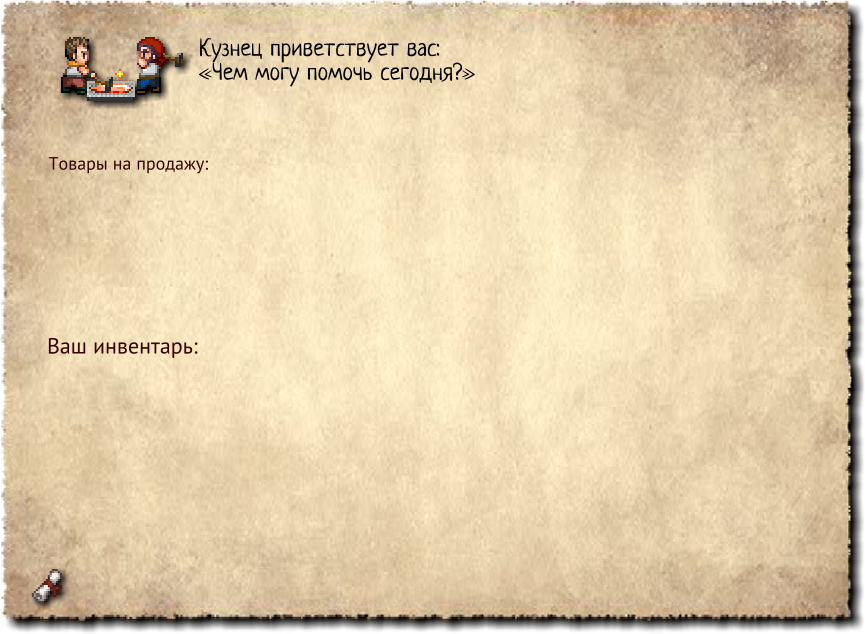
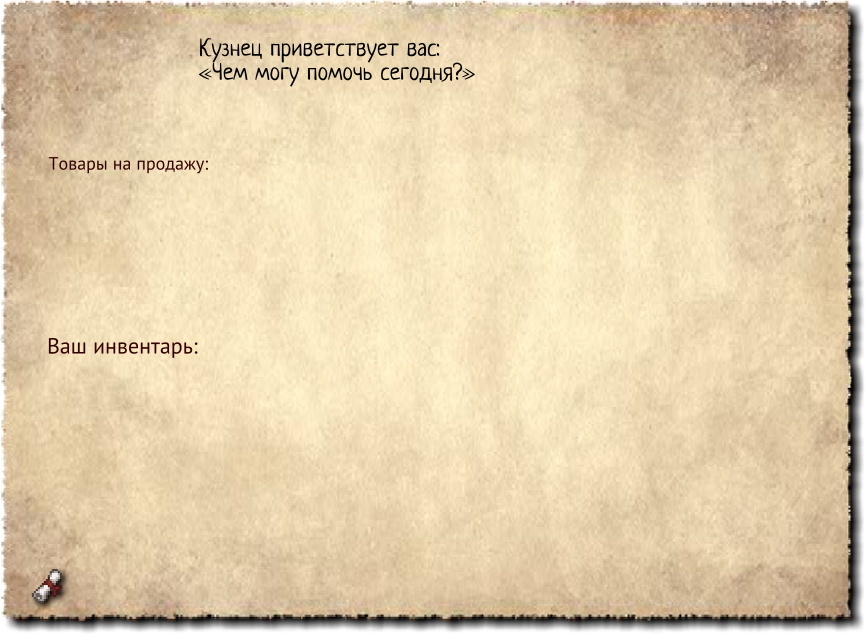
Animate the town window NPCs
The innkeeper, castle guard, barrack/equipment duelists, blacksmiths and museum
pair in the top-left corner of the town windows are looping clips inside window
sprite 1995 (depth 11: symbols 1595, 1637, 1690, 1800, 1826). The extractor baked
their first frame into the static panels, so they stood still.

- extract_web_assets.py exports the five clips (TOWN_NPCS) and omits them from
  the panels; static_screen's omit set now also accepts a characterId, because
  these instances have no name.
- town-npc.ts places each clip at its original window position and loops it at
  30 fps; town-view, shop-view and party-view add it above the panel.
- The six English and five Russian panels only change inside the NPC area: the
  regenerated NPC-free region was pasted into the existing lossless images, so
  text and paper pixels are unchanged.

Changed region(s): [[0.0624, 0.0599, 0.2185, 0.1798]]

diff --git a/web/src/town-npc.ts b/web/src/town-npc.ts
@@ -1,0 +1,35 @@
+import Phaser from 'phaser';
+import { localizedImage } from './localized-image.ts';
+import type { LootViewManifest } from './loot-view.ts';
+
+/**
+ * Персонажи в левом верхнем углу городских окон — циклические клипы окна 1995 (глубина 11).
+ * Координаты взяты из кадров соответствующих меню и заданы внутри окна; окно смещено на (menuX, −22),
+ * как и статические панели, из которых эти клипы теперь исключены.
+ */
+const TOWN_NPCS = {
+  mission: { clip: 'townNpcInn', x: 144, y: 84.4, scaleX: 0.998, scaleY: 0.998 },
+  castle: { clip: 'townNpcCastle', x: 147, y: 85, scaleX: 0.998, scaleY: 0.998 },
+  characters: { clip: 'townNpcBarrack', x: 146, y: 85, scaleX: 1.001, scaleY: 0.998 },
+  // Окно снаряжения (кадр 71) использует того же персонажа, что и казарма.
+  equipment: { clip: 'townNpcBarrack', x: 146, y: 85, scaleX: 1.001, scaleY: 0.998 },
+  shop: { clip: 'townNpcSmithy', x: 144, y: 88, scaleX: 1.001, scaleY: 0.998 },
+  medals: { clip: 'townNpcMuseum', x: 156, y: 84, scaleX: 1.001, scaleY: 0.998 },
+} as const;
+export type TownNpcTab = keyof typeof TOWN_NPCS;
+
+/** Клип проигрывается по кругу с исходной частотой 30 кадров/с; таймер снимается вместе с окном. */
+export function createTownNpc(scene: Phaser.Scene, manifest: LootViewManifest, tab: TownNpcTab, menuX: number, menuY: number): Phaser.GameObjects.Image | undefined {
+  const placement = TOWN_NPCS[tab], asset = (manifest.clips as Record<string, LootViewManifest['clips'][string] & { count?: number }>)[placement.clip];
+  if (!asset) return undefined;
+  const npc = localizedImage(scene, menuX + placement.x, menuY + placement.y, placement.clip, '1')
+    .setOrigin(asset.originX / asset.frameWidth, asset.originY / asset.frameHeight)
+    .setScale(placement.scaleX, placement.scaleY).setName(`town-npc-${tab}`);
+  const startedAt = scene.time.now;
+  const timer = scene.time.addEvent({ delay: 1000 / 30, loop: true, callback: () => {
+    if (!npc.active) return;
+    npc.setFrame(String(Math.floor((scene.time.now - startedAt) / (1000 / 30)) % (asset.count ?? 1) + 1));
+  } });
+  npc.once(Phaser.GameObjects.Events.DESTROY, () => timer.remove());
+  return npc;
+}

diff --git a/web/src/town-view.ts b/web/src/town-view.ts
@@ -8,6 +8,7 @@ import { nextTitle, type Title } from './titles.ts';
 import type { TownNotice } from './town-events.ts';
 import Phaser from 'phaser';
 import type { LootViewManifest } from './loot-view.ts';
+import { createTownNpc } from './town-npc.ts';
 import { ITEM_TYPE, isOccupiedItem, type Item } from './items.ts';
 import { CASTLE_UPGRADES, castleDamageMultiplier, castleLootMultiplier, castleRepairAmount, castleStorageLevel, castleTrainerMultiplier, castleUpgradeCost, castleUpkeep, type CastleUpgradeKind } from './castle-upgrades.ts';
 
@@ -101,6 +102,7 @@ export function createTownView(scene: Phaser.Scene, state: TownViewState, manife
     const canRest = state.day < MAX_CAMPAIGN_DAY && state.town?.preparation === 'ready';
     // Вертикальный сдвиг уже запечён в статическую панель; её кнопкам он нужен отдельно.
     image(panel.image, x, 0);
+    const npc = createTownNpc(scene, manifest, tab, x, y); if (npc) root.add(npc);
     button('button_windowClose', panel.children.closeButton, () => callbacks.select(null), x, y);
     if (tab === 'castle') {
       text(panel.children.unkeep, String(castleUpkeep(state)), x, y);
@@ -234,6 +236,7 @@ export function createTownView(scene: Phaser.Scene, state: TownViewState, manife
   if (tab === 'medals') {
     const panel = layout.medals, { x, y } = layout.menuPosition;
     image(panel.image, x, 0);
+    const npc = createTownNpc(scene, manifest, 'medals', x, y); if (npc) root.add(npc);
     button('button_windowClose', panel.children.closeButton, () => callbacks.select(null), x, y);
     button('button_castlePage1', panel.children.page1, () => callbacks.medalPage(0), x, y);
     button('button_castlePage2', panel.children.page2, () => callbacks.medalPage(1), x, y);

diff --git a/web/src/shop-view.ts b/web/src/shop-view.ts
@@ -6,6 +6,7 @@ import type { ItemPopupInfo } from './item-popup-values.ts';
 import Phaser from 'phaser';
 import { ITEM_TYPE, isOccupiedItem, itemPrice, type Item } from './items.ts';
 import type { LootViewManifest } from './loot-view.ts';
+import { createTownNpc } from './town-npc.ts';
 import { createModConfirmation } from './mod-confirmation-view.ts';
 
 interface Placement {
@@ -94,6 +95,7 @@ export function createShopView(scene: Phaser.Scene, state: ShopViewState, manife
   };
   // Сдвиг y уже запечён в исходную панель; отдельные элементы используют оба смещения.
   image(panel.image, menu.x, 0);
+  const npc = createTownNpc(scene, manifest, 'shop', menu.x, menu.y); if (npc) root.add(npc);
   const status = text(panel.children.hint2, HINT, menu.x, menu.y).setName('shop-hint');
   const warning = text(panel.children.warning, '', menu.x, menu.y).setName('shop-skill-warning');
   const message = (value: string) => { status.setText(value); callbacks.message(value); };

diff --git a/web/src/party-view.ts b/web/src/party-view.ts
@@ -1,4 +1,5 @@
 import { localizedImage } from './localized-image.ts';
+import { createTownNpc } from './town-npc.ts';
 import { localizedText, contentText, fitLocalizedText } from './localized-text.ts';
 import { SMART_COST_HINT, SMART_HINT, SMART_ORDER } from './smart-mode.ts';
 import { buttonInput } from './button-input.ts';
@@ -122,6 +123,7 @@ export function createPartyView(scene: Phaser.Scene, state: PartyViewState, mani
   };
   // y уже включён в статические панели; динамические элементы используют оба смещения.
   image(panel.image, menu.x, 0);
+  const npc = createTownNpc(scene, manifest, tab, menu.x, menu.y); if (npc) root.add(npc);
   const hint = text(panel.children.hint2, tab === 'equipment' ? EQUIP_HINT : '').setName('party-hint');
   const message = (value: string) => { hint.setText(value); callbacks.message(value); };
   button('button_windowClose', panel.children.closeButton, callbacks.close);

diff --git a/tools/extract_web_assets.py b/tools/extract_web_assets.py
@@ -65,6 +65,9 @@ CLIPS.update({"gameVolume": 2671, "originalCrosshair": 2689, "fireworkLaunch": 9
               "fireworkBit1": 101, "fireworkBit2": 91})
 CLIPS["museumKongregate"] = 1835
 CLIPS["townEventCards"] = 2336
+# Персонажи в углу городских окон — циклические клипы; они экспортируются отдельно и исключаются из статических панелей.
+TOWN_NPCS = {"townNpcInn": 1595, "townNpcCastle": 1637, "townNpcBarrack": 1690, "townNpcSmithy": 1800, "townNpcMuseum": 1826}
+CLIPS.update(TOWN_NPCS)
 BUTTONS.update({"button_pauseTitle": 1487, "button_pauseSave": 1490, "button_gameMenu": 2703})
 BUTTONS.update({"button_carryOver": 2732, "button_carryOverAgain": 2736})
 FORCE = False
@@ -196,7 +199,8 @@ def static_screen(xml, name, tags, omit=(), offset=(0, 0), sprite_frames=None, s
                             "SoundStreamBlockTag", "SoundStreamHeadTag", "SoundStreamHead2Tag"}):
             target.remove(tag)
     for tag in tags:
-        if tag.get("name") in omit:
+        # omit принимает имя экземпляра или characterId безымянного экземпляра (у персонажей окон нет имён).
+        if tag.get("name") in omit or tag.get("characterId") in omit:
             continue
         tag = copy.deepcopy(tag)
         if name == "townHud" and tag.get("name") == "bgAlpha":
@@ -939,18 +943,18 @@ def main():
         ("townHud", tags, 65, omit_battle | omit_town_nav, (0, 0)),
         ("townScene", tags, 71, omit_battle | omit_town_nav | {"textCarryOver"}, (0, 0)),
         ("townMission", sprites[1995].find("subTags"), 40,
-         {"closeButton", "hint2", "act1", "act2", "actRef1", "actRef2"}, (0, -22)),
+         {"closeButton", "hint2", "act1", "act2", "actRef1", "actRef2", "1595"}, (0, -22)),
         ("townCastle", sprites[1995].find("subTags"), 54,
-         {"closeButton", "hint2", "hint", "unkeep", "locker", "act1", "actRef1", "page1", "page2"}, (0, -22)),
+         {"closeButton", "hint2", "hint", "unkeep", "locker", "act1", "actRef1", "page1", "page2", "1637"}, (0, -22)),
         ("townShop", sprites[1995].find("subTags"), 80,
-         {"closeButton", "hint2", "warning", "popup", "actHelp", "act1", "act2", "actRef1", "actRef2"}, (0, -22)),
+         {"closeButton", "hint2", "warning", "popup", "actHelp", "act1", "act2", "actRef1", "actRef2", "1800"}, (0, -22)),
         ("townCharacters", sprites[1995].find("subTags"), 63,
          {"closeButton", "hint2", "hint", "dismissButton", "classText", "wage", "titleText", "wageText", "earnText", "killText",
-          "orderText", "recruitText", "dismissText", "costText", "order", "fo", "act1", "actRef1", "optHint", "optBoss", "optWall"}, (0, -22)),
+          "orderText", "recruitText", "dismissText", "costText", "order", "fo", "act1", "actRef1", "optHint", "optBoss", "optWall", "1690"}, (0, -22)),
         ("townEquipment", sprites[1995].find("subTags"), 71,
-         {"closeButton", "hint2", "popup", "warning", "actHelp", "act1", "act2", "actRef1", "actRef2"}, (0, -22)),
+         {"closeButton", "hint2", "popup", "warning", "actHelp", "act1", "act2", "actRef1", "actRef2", "1690"}, (0, -22)),
         ("townMedals", sprites[1995].find("subTags"), 85,
-         {"closeButton", "hint2", "hint", "lootText", "act1", "actRef1", "page1", "page2", "kongMc", "armorbt"}, (0, -22)),
+         {"closeButton", "hint2", "hint", "lootText", "act1", "actRef1", "page1", "page2", "kongMc", "armorbt", "1826"}, (0, -22)),
         ("medalRow", sprites[2151].find("subTags"), 1, {"medalName"}, (0, 0)),
         ("gene", sprites[1995].find("subTags"), 125, omit_gene, (0, -26)),
         ("gameMods", sprites[1995].find("subTags"), 136,
